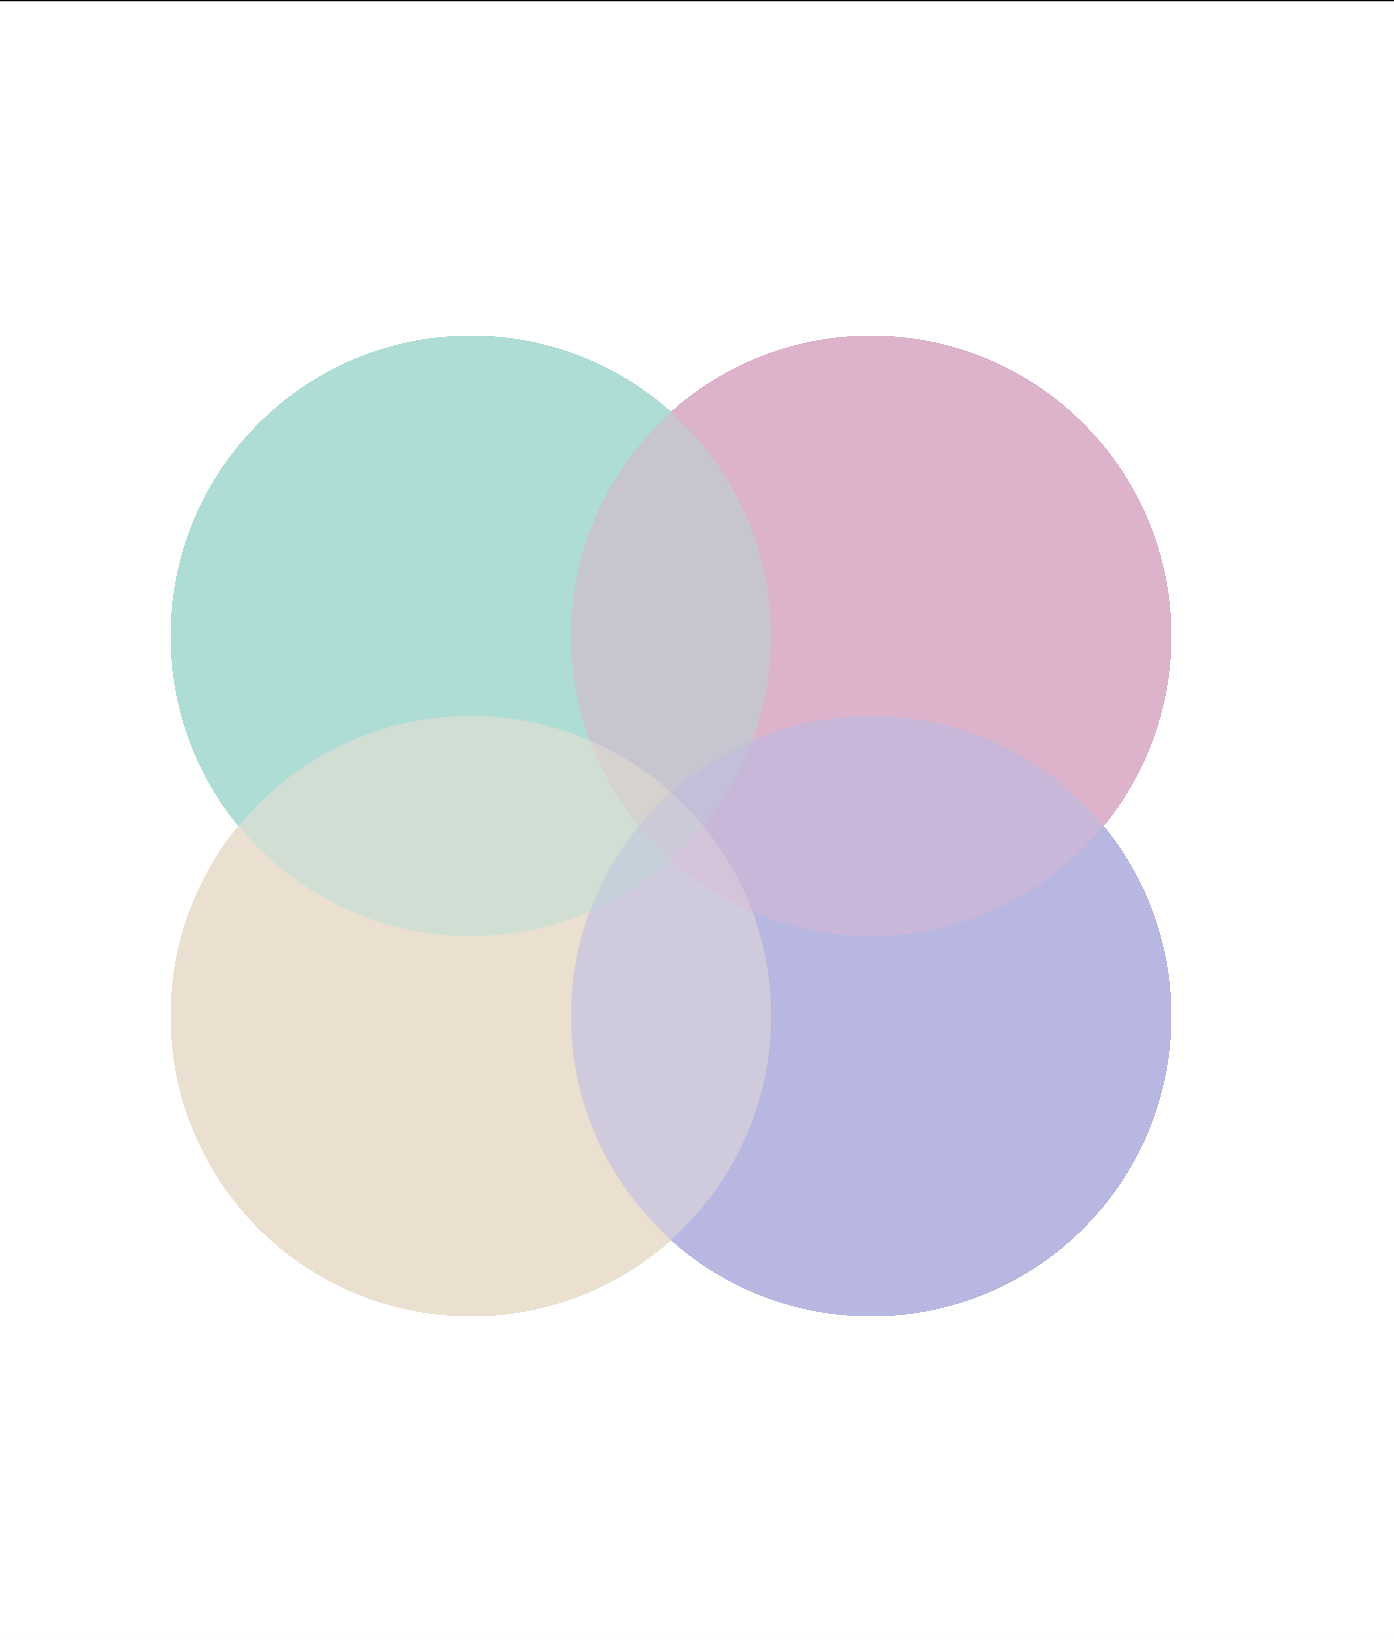
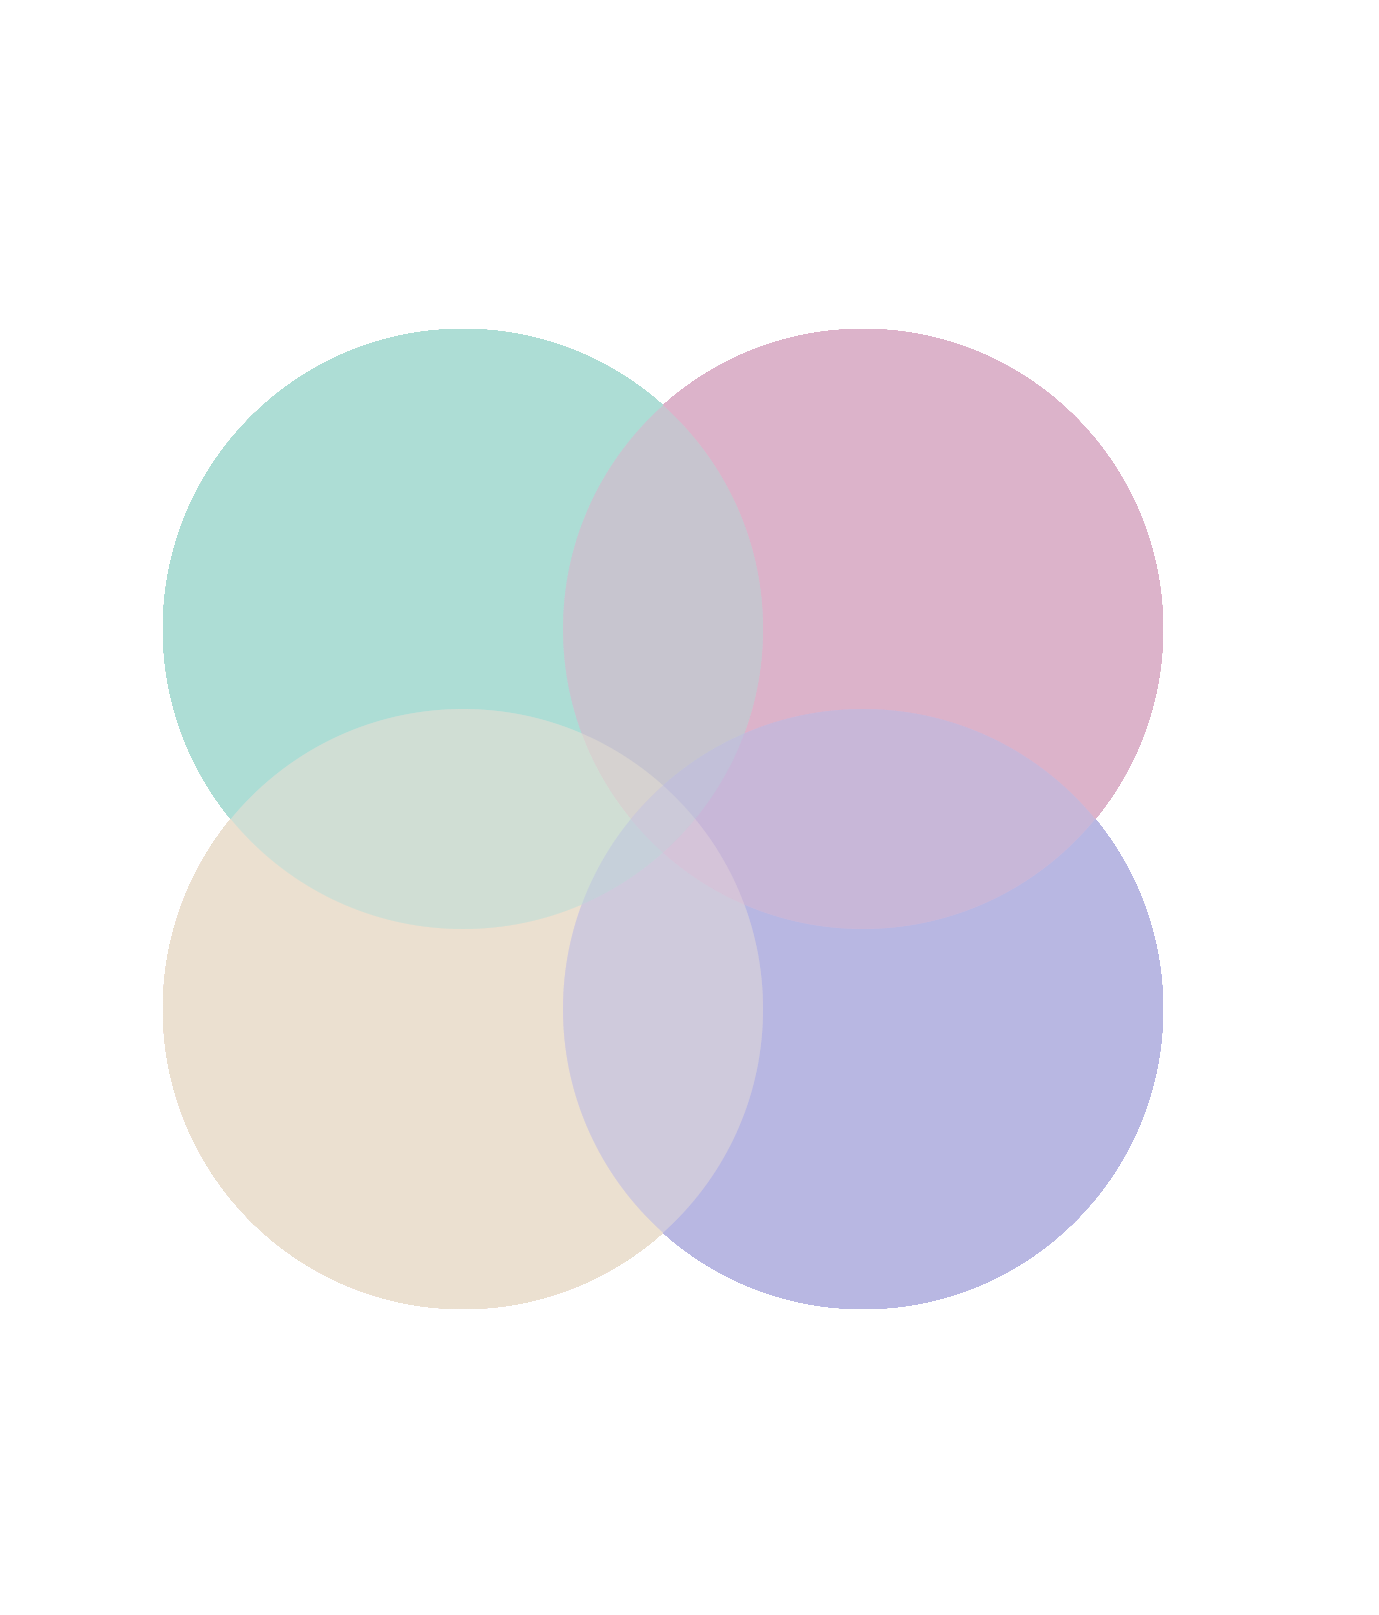
edit homework

diff --git a/2022-03-05/hw22-03-05.html b/2022-03-05/hw22-03-05.html
@@ -53,11 +53,36 @@
         {
             font-family: 'Roboto Mono', monospace;
         }
+        div.image
+        {
+            display: flex;
+            justify-content: center;
+            margin: 20px;
+        }
+        div.images
+        {
+            display: flex;
+            justify-content: flex-start;
+            align-items: flex-start;
+            flex-wrap: wrap;
+        }
+        div.images img
+        {
+            height: 400px;
+            margin: 20px;
+        }
+        pre.assignment
+        {
+            font-family: 'Raleway', sans-serif;
+            white-space: pre-wrap;
+            margin: 0px;
+            white-space: pre-line;
+        }
     </style>
     <body>
         <script src="https://cdnjs.cloudflare.com/ajax/libs/prism/1.5.0/prism.min.js"></script>
         <ol>
-            <h1 id="title">homework august 17th</h1>
+            <h1 id="title">Homework Due March 5, 2022</h1>
             <li class="list">
                 <p class="assignment">
                     The following questions are from GMAT Prep Plus 2019, ISBN 1506234895, page 709:
@@ -65,7 +90,7 @@
                         <li class="list">
                             If z is an integer is z even? You are given:
                             <ol type="i">
-                                <li class="code">
+                                <li class="list">
                                     <span class='code'>(z+m) / 3 = 2m + 1 where m is an integer</span>
                                 </li>
                                 <li class="list">
@@ -76,10 +101,10 @@
                         <li class="list">
                             The set S contains n integers.  Is the sum of all the elements of set S odd?  You are given:
                             <ol type="i">
-                                <li class="code">
+                                <li class="list">
                                     <span class='code'>All the elements of S are prime numbers</span>
                                 </li>
-                                <li class="code">
+                                <li class="list">
                                     <span class='code'>n = 2</span>
                                 </li>
                             </ol>
@@ -87,25 +112,39 @@
                         <li class="list">
                             If m is an odd number and p is a prime number, which of the following must be odd?
                             <ol type="i">
-                                <li class="code">
-                                    <span class='code'>mp</span>
+                                <li class="list">
+                                    <span class='code'>mp</span> = false
                                 </li>
-                                <li class="code">
-                                    <span class='code'>m(m + p)</span>
+                                <li class="list">
+                                    <span class='code'>m(m + p)</span> = false
                                 </li>
-                                <li class="code">
-                                    <span class='code'>m - p</span>
+                                <li class="list">
+                                    <span class='code'>m - p</span> = false
                                 </li>
-                                <li class="code">
-                                    <span class='code'>m² + 2p² + 1</span>
+                                <li class="list">
+                                    <span class='code'>m² + 2p² + 1</span> = false
                                 </li>
-                                <li class="code">
-                                    <span class='code'>m²(m + 2p)</span>
+                                <li class="list">
+                                    <span class='code'>m²(m + 2p)</span> = true
                                 </li>
                             </ol>
                         </li>
                     </ol>
                 </p>
+                <p class='answer'>answer</p>
+                <ol type="a">
+                    <li class='list'>
+                        <pre class='assignment'>
+                            The equation is not always true and z³ is not always even. It will be true only when m = odd, because if m is not equal to an odd number, the equation will never be true and z³ won't be even.
+                            Z is not always even, when m is an odd number then z will be even but if m is even then z is not even.
+                        </p>
+                    </li>
+                    <li class='list'>
+                        <pre class='assignment'>
+                            The sum of the elements of the set S is odd, only if one of the two primes numbers in the set is 2, for example the set S = {2, 5} then that would be 7, if one of the numbers in the set is not 2 then, the sum of the numbers contant in the set will not be odd.
+                        </p>
+                    </li>
+                </ol>
             </li>
             <li class="list">
                 <p class="assignment">
@@ -137,7 +176,7 @@
                 Recreate this image in p5js and enhance it as described below.  
                 Also, answer the questions.
                 <ol type="a">
-                    <li class="listr">
+                    <li class="list">
                         Create an 800x800 canvas to contain your image.  
                         Make the blue square have size 600x600.  
                         (Pixels)
@@ -194,7 +233,7 @@
                 Then 𝓟({1, 2}) = {{}, {1}, {2}, {1, 2}}.  Evaluate the following:
                 <ol type="a">
                     <li class="list">
-                        𝓟({1, 2, 3})
+                        𝓟({1, 2, 3}) 
                     </li>
                     <li class="list">
                         𝓟({2, 3, 4})
@@ -204,6 +243,21 @@
                     </li>
                     <li class="list">
                         𝓟({2, 3, 4, 5}) ∩ 𝓟({4, 5, 6, 7})
+                    </li>
+                </ol>
+                <p class="answer">answer</p>
+                <ol type="a">
+                    <li class="code">
+                        𝓟({1, 2, 3}) = {{}, {1}, {2}, {3}, {1,2}, {2,3}, {1,3}}
+                    </li>
+                    <li class="code">
+                        𝓟({2, 3, 4}) = {{}, {2}, {3}, {4}, {2,3}, {3,4}, {2,4}}
+                    </li>
+                    <li class="code">
+                        𝓟({1, 2, 3, 4}) = {{}, {1}, {2}, {3}, {4}, {1,2}, {2,3}, {3,4}, {1,3}, {1,4}, {2,4}}
+                    </li>
+                    <li class="code">
+                        𝓟({2, 3, 4, 5}) ∩ 𝓟({4, 5, 6, 7}) = {{}, {4}, {5}, {4, 5}}
                     </li>
                 </ol>
             </li>
@@ -311,10 +365,18 @@
                         console.log(mySet1)
                     </li>
                 </ol>
+                <p class="answer">answer</p>
+                <p class='assignment'>
+                    First we made a set by using the prototypie <span class='code'>set()</span>, then we add some numbers to the set and 'some text' then we made an object called o with two properties and we add it to the set that we made, so now the object "o" is a subset in the set, then we ask if the set has some numbers and if the set has 'some text', then we ask if the set has the subset "o", we ask for the size of the subset and it give 5 because it just have five properties, two numbers, two subsets and 'some text', then we delete one number so now they are 4 properties in the set then we ask for the size of the set, now the size is 4 because we delete the number 5, then for the las thing we do a console.log for the set.
+                </p>
             </li>
             <li class="list">
                 <p class="assignmnet">
                     What is a Venn Diagram?  Discuss.
+                </p>
+                <p class="answer">answer</p>
+                <p class='assignment'>
+                    A Venn Diagram is a diagram of circles or other shapes that stands to represent the relation that can be between two or more sets, every sets are represent by a circle.
                 </p>
             </li>
             <li class="list">
@@ -330,6 +392,75 @@
                     </li>
                     <li class="list">
                         4 sets that intersect
+                    </li>
+                </ol>
+                <p class="answer">answer</p>
+                <ol type="a">
+                    <li class="code">
+                        2 sets:
+                        <div class="image">
+                            <img src="2-sets.png" height="500">
+                        </div>
+                        <pre><code class="language-javascript">
+                            function setup() {
+                                createCanvas(windowWidth, windowHeight);
+                                noStroke()
+                            }
+                            
+                            function draw() {
+                                //2 sets
+                                fill(159, 223, 213, 50)
+                                circle(500, windowHeight/2, 500)
+                                fill(229, 177, 204, 50)
+                                circle(800, windowHeight/2, 500)
+                            }
+                        </code></pre>
+                    </li>
+                    <li class="code">
+                        3 sets:
+                        <div class="image">
+                            <img src="3-sets.png" height="500">
+                        </div>
+                        <pre><code class="language-javascript">
+                            function setup() {
+                                createCanvas(windowWidth, windowHeight);
+                                noStroke()
+                            }
+                            
+                            function draw() {
+                                //3 sets
+                                fill(159, 223, 213, 50)
+                                circle(windowWidth/2-100, windowHeight/2-100, 300)
+                                fill(229, 177, 204, 50)
+                                circle(windowWidth/2+100, windowHeight/2-100, 300)
+                                fill(239, 223, 207, 50)
+                                circle(windowWidth/2, 500, 300)
+                            }
+                        </code></pre>
+                    </li>
+                    <li class='code'>
+                        4 sets:
+                        <div class="image">
+                            <img src="4sets.png" height="500">
+                        </div>
+                        <pre><code class="language-javascript">
+                            function setup() {
+                                createCanvas(windowWidth, windowHeight);
+                                noStroke()
+                            }
+                            
+                            function draw() {
+                                //4 sets 
+                                fill(159, 223, 213, 50)
+                                circle(windowWidth/2-100, windowHeight/2-100, 300)
+                                fill(229, 177, 204, 50)
+                                circle(windowWidth/2+100, windowHeight/2-100, 300)
+                                fill(239, 223, 207, 50)
+                                circle(windowWidth/2-100, 500, 300)
+                                fill(184, 183, 231, 50)
+                                circle(windowWidth/2+100, 500, 300)
+                            }
+                        </code></pre>
                     </li>
                 </ol>
             </li>
